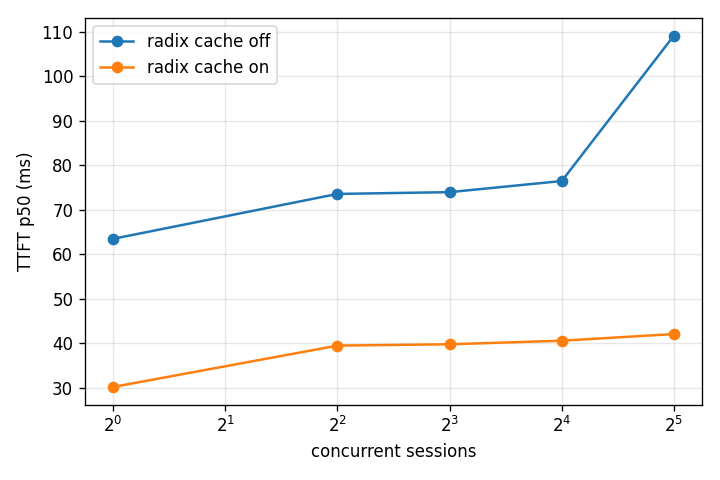
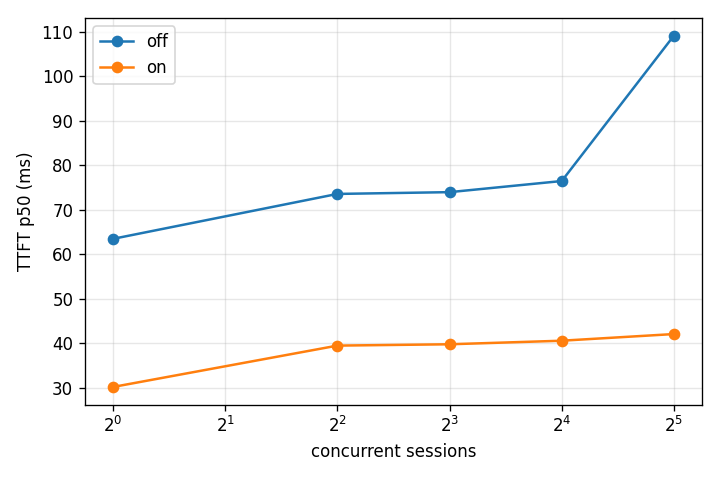
Fix idle_delete pgrep self-match; variant runs (MODES/VARIANT/EXTRA), goodput in analyze, parametrized roofline, LoRA merge script

Changed region(s): [[0.2139, 0.0312, 0.3972, 0.1875]]

diff --git a/agentbench/analyze.py b/agentbench/analyze.py
@@ -25,6 +25,9 @@ def ms(x, nd=1):
     return None if x is None else round(x * 1e3, nd)
 
 
+SLO_TTFT, SLO_TPOT = 0.200, 0.025
+
+
 def metrics_for(path, chips, p_od, p_spot):
     d = json.load(open(path))
     s, turns = d["summary"], d["turns"]
@@ -47,6 +50,9 @@ def metrics_for(path, chips, p_od, p_spot):
     if cached and ptok and len(ptok) == len(ok):
         cached_pct = round(100 * sum(t.get("cached_tokens") or 0 for t in ok) / sum(ptok), 1)
     tps = s.get("output_tok_per_s")
+    # goodput: requests meeting SLO TTFT<200 ms and TPOT(ITL)<25 ms (docs/NEXT_EXPERIMENTS.md #3)
+    good = [t for t in ok if t["ttft_s"] < SLO_TTFT and (t["out_tokens"] <= 1 or t["itl_s"] < SLO_TPOT)]
+    good_tok = sum(t["out_tokens"] for t in good)
     usd_1m = lambda price: round(price * chips / 3600 / tps * 1e6, 3) if tps else None
     return {
         "concurrency": s["config"]["concurrency"],
@@ -63,6 +69,8 @@ def metrics_for(path, chips, p_od, p_spot):
         "cached_tokens_pct": cached_pct,
         "ttft_turn1_ms": ms(t0), "ttft_turnN_ms": ms(tn),
         "ttft_turn1_over_turnN": round(t0 / tn, 2) if t0 and tn else None,
+        "slo_attain_pct": round(100 * len(good) / n, 1) if n else None,
+        "goodput_tok_per_s": round(tps * good_tok / out_tok, 1) if tps and out_tok else None,
         "usd_per_1M_out_ondemand": usd_1m(p_od),
         "usd_per_1M_out_spot_est": usd_1m(p_spot),
         "ttft_by_turn_ms": {str(k): ms(pct(v, 50)) for k, v in sorted(by_turn.items())},
@@ -80,7 +88,7 @@ COLS = ["concurrency", "requests", "error_rate_pct", "output_tok_per_s", "output
         "requests_per_s", "ttft_p50_ms", "ttft_p90_ms", "ttft_p99_ms", "itl_p50_ms", "itl_p90_ms",
         "itl_p99_ms", "e2e_p50_ms", "e2e_p99_ms", "mean_prompt_tokens", "mean_cached_tokens",
         "cached_tokens_pct", "ttft_turn1_ms", "ttft_turnN_ms", "ttft_turn1_over_turnN",
-        "usd_per_1M_out_ondemand", "usd_per_1M_out_spot_est"]
+        "slo_attain_pct", "goodput_tok_per_s", "usd_per_1M_out_ondemand", "usd_per_1M_out_spot_est"]
 
 
 def table(rows):
@@ -103,7 +111,7 @@ def charts(rows, out):
         fig, ax = plt.subplots(figsize=(6, 4))
         for m in modes:
             rr = sorted([r for r in rows if r["mode"] == m], key=lambda r: r["concurrency"])
-            ax.plot([r["concurrency"] for r in rr], [r[key] for r in rr], marker="o", label=f"radix cache {m}")
+            ax.plot([r["concurrency"] for r in rr], [r[key] for r in rr], marker="o", label=m)
         ax.set_xscale("log", base=2); ax.set_xlabel("concurrent sessions"); ax.set_ylabel(label)
         ax.grid(alpha=.3); ax.legend(); fig.tight_layout()
         fig.savefig(os.path.join(out, f"{key}.png"), dpi=120); plt.close(fig)
@@ -129,11 +137,13 @@ def main(argv=None):
     p.add_argument("--price-spot", type=float, default=1.00, help="$/chip-hour (estimate)")
     a = p.parse_args(argv)
     rows, extra = [], {}
-    for mode in ("cache", "nocache"):
+    subdirs = sorted(x for x in os.listdir(a.tagdir)
+                     if glob.glob(os.path.join(a.tagdir, x, "c*.json")))
+    for mode in subdirs:
         d = os.path.join(a.tagdir, mode)
         for f in glob.glob(os.path.join(d, "c*.json")):
             r = metrics_for(f, a.chips, a.price_ondemand, a.price_spot)
-            r["mode"] = "on" if mode == "cache" else "off"
+            r["mode"] = {"cache": "on", "nocache": "off"}.get(mode, mode)
             rows.append(r)
         info = {}
         tf = os.path.join(d, "timing.json")

diff --git a/scripts/roofline.py b/scripts/roofline.py
@@ -1,13 +1,21 @@
 """Decode roofline for Qwen2.5-7B bf16 on TPU v6e-1 vs measured ITL. Writes charts/roofline.png and prints a table."""
-import csv, pathlib
+import argparse, csv, pathlib
 import matplotlib; matplotlib.use("Agg")
 import matplotlib.pyplot as plt
 
-HBM_BW = 1640e9      # v6e HBM bandwidth, B/s (Google Cloud v6e docs)
-PEAK = 918e12        # v6e bf16 peak FLOP/s
-PARAMS = 7.62e9      # Qwen2.5-7B incl. embeddings
+ap = argparse.ArgumentParser()
+ap.add_argument("tagdir", nargs="?", default="results/v6e-1-qwen7b")
+ap.add_argument("--mode", default="on", help="metrics.csv mode column to compare")
+ap.add_argument("--chips", type=int, default=1)
+ap.add_argument("--params", type=float, default=7.62e9)
+ap.add_argument("--kv-per-tok", type=float, default=2 * 28 * 4 * 128 * 2, help="bytes/token, whole model")
+ap.add_argument("--title", default="Qwen2.5-7B bf16 on v6e-1")
+A = ap.parse_args()
+HBM_BW = 1640e9 * A.chips      # v6e HBM bandwidth, B/s (Google Cloud v6e docs)
+PEAK = 918e12 * A.chips       # v6e bf16 peak FLOP/s
+PARAMS = A.params     # Qwen2.5-7B incl. embeddings
 W_BYTES = PARAMS * 2 # bf16
-KV_PER_TOK = 2 * 28 * 4 * 128 * 2  # K+V * layers * kv_heads * head_dim * bf16 = 57,344 B
+KV_PER_TOK = A.kv_per_tok # K+V * layers * kv_heads * head_dim * bf16 = 57,344 B
 CTX = 1400           # ~mean prompt (1236) + half of output
 
 def floor_ms(b):
@@ -15,8 +23,9 @@ def floor_ms(b):
     comp = 2 * PARAMS * b / PEAK
     return max(mem, comp) * 1e3
 
-root = pathlib.Path(__file__).resolve().parents[1] / "results/v6e-1-qwen7b"
-rows = [r for r in csv.DictReader(open(root / "metrics.csv")) if r["mode"] == "on"]
+root = pathlib.Path(A.tagdir)
+rows = sorted([r for r in csv.DictReader(open(root / "metrics.csv")) if r["mode"] == A.mode],
+              key=lambda r: int(r["concurrency"]))
 print("| c | floor ITL ms | measured ITL p50 ms | % of roofline | roofline decode tok/s | measured out tok/s |")
 print("|---|---|---|---|---|---|")
 for r in rows:
@@ -32,5 +41,5 @@ ax.plot([int(r["concurrency"]) for r in rows], [float(r["output_tok_per_s"]) for
         "s--", label="measured end-to-end output tok/s", color="#ff7f0e")
 ax.set_xscale("log", base=2); ax.set_yscale("log")
 ax.set_xlabel("concurrent sequences"); ax.set_ylabel("decode tokens/s")
-ax.set_title("Qwen2.5-7B bf16 on v6e-1: decode roofline vs measured"); ax.grid(alpha=.3); ax.legend(fontsize=8)
-(root / "charts").mkdir(exist_ok=True); fig.tight_layout(); fig.savefig(root / "charts/roofline.png", dpi=130)
+ax.set_title(f"{A.title}: decode roofline vs measured ({A.mode})"); ax.grid(alpha=.3); ax.legend(fontsize=8)
+(root / "charts").mkdir(exist_ok=True); fig.tight_layout(); fig.savefig(root / f"charts/roofline_{A.mode}.png", dpi=130)

diff --git a/scripts/merge_lora.py b/scripts/merge_lora.py
@@ -1,0 +1,52 @@
+"""Merge a PEFT LoRA adapter into base safetensors shards, CPU only (no transformers model build).
+    python scripts/merge_lora.py BASE_DIR ADAPTER_DIR OUT_DIR
+W' = W + (alpha/r) * B @ A for every lora_A/lora_B pair. Copies non-weight files from BASE_DIR
+(and tokenizer/chat template from ADAPTER_DIR). Base key matched by suffix after 'model.'.
+"""
+import json, os, shutil, sys
+import torch
+from safetensors.torch import load_file, save_file
+
+base, adp, out = sys.argv[1:4]
+os.makedirs(out, exist_ok=True)
+cfg = json.load(open(os.path.join(adp, "adapter_config.json")))
+scale = cfg["lora_alpha"] / cfg["r"]
+lora = load_file(os.path.join(adp, "adapter_model.safetensors"))
+pairs = {}
+for k, v in lora.items():
+    if ".lora_A." in k or ".lora_B." in k:
+        stem = k.replace("base_model.model.", "").split(".lora_")[0]
+        pairs.setdefault(stem, {})["A" if ".lora_A." in k else "B"] = v
+print(f"{len(pairs)} LoRA pairs, scale={scale}")
+
+def match(key, stems):
+    w = key[:-len(".weight")] if key.endswith(".weight") else None
+    if w is None:
+        return None
+    for s in (w, w.replace("model.language_model.", "model."), w.replace("model.", "model.language_model.", 1)):
+        if s in stems:
+            return s
+    return None
+
+idx = json.load(open(os.path.join(base, "model.safetensors.index.json")))
+used = set()
+for shard in sorted(set(idx["weight_map"].values())):
+    t = load_file(os.path.join(base, shard))
+    n = 0
+    for k in list(t):
+        s = match(k, pairs)
+        if s:
+            A, B = pairs[s]["A"].float(), pairs[s]["B"].float()
+            t[k] = (t[k].float() + scale * (B @ A)).to(t[k].dtype); used.add(s); n += 1
+    save_file(t, os.path.join(out, shard), metadata={"format": "pt"}); print(shard, "merged", n, flush=True)
+    del t
+missing = set(pairs) - used
+print("unmatched LoRA pairs:", len(missing), sorted(missing)[:5])
+assert not missing, "adapter keys did not match base weights"
+for f in os.listdir(base):
+    if not f.endswith(".safetensors") and os.path.isfile(os.path.join(base, f)):
+        shutil.copy(os.path.join(base, f), out)
+for f in ("tokenizer.json", "tokenizer_config.json", "chat_template.jinja"):
+    if os.path.exists(os.path.join(adp, f)):
+        shutil.copy(os.path.join(adp, f), out)
+print("done", out)

diff --git a/results/v6e-1-qwen7b/metrics.md b/results/v6e-1-qwen7b/metrics.md
@@ -1,14 +1,14 @@
-| mode | concurrency | requests | error_rate_pct | output_tok_per_s | output_tok_per_s_per_chip | requests_per_s | ttft_p50_ms | ttft_p90_ms | ttft_p99_ms | itl_p50_ms | itl_p90_ms | itl_p99_ms | e2e_p50_ms | e2e_p99_ms | mean_prompt_tokens | mean_cached_tokens | cached_tokens_pct | ttft_turn1_ms | ttft_turnN_ms | ttft_turn1_over_turnN | usd_per_1M_out_ondemand | usd_per_1M_out_spot_est |
-|---|---|---|---|---|---|---|---|---|---|---|---|---|---|---|---|---|---|---|---|---|---|---|
-| off | 1 | 24 | 0.0 | 72.39 | 72.4 | 1.219 | 63.5 | 67.1 | 80.8 | 12.86 | 12.91 | 12.94 | 426.0 | 1724.7 | 1230.4 |  |  | 42.5 | 66.6 | 0.64 | 10.361 | 3.837 |
-| off | 4 | 96 | 0.0 | 253.57 | 253.6 | 3.596 | 73.6 | 94.5 | 113.6 | 14.56 | 15.58 | 16.62 | 634.6 | 2076.3 | 1248.3 |  |  | 82.3 | 74.6 | 1.1 | 2.958 | 1.095 |
-| off | 8 | 192 | 0.0 | 433.49 | 433.5 | 6.208 | 74.0 | 128.2 | 186.5 | 16.93 | 18.65 | 20.33 | 784.8 | 2436.7 | 1249.3 |  |  | 128.1 | 75.3 | 1.7 | 1.73 | 0.641 |
-| off | 16 | 384 | 0.0 | 668.12 | 668.1 | 10.357 | 76.5 | 198.0 | 340.9 | 22.28 | 25.24 | 28.33 | 860.8 | 3190.1 | 1240.7 |  |  | 195.3 | 76.9 | 2.54 | 1.123 | 0.416 |
-| off | 32 | 768 | 0.0 | 929.95 | 930.0 | 15.272 | 109.2 | 358.5 | 598.1 | 32.39 | 37.01 | 41.58 | 1208.2 | 4683.7 | 1234.3 |  |  | 326.5 | 108.3 | 3.01 | 0.806 | 0.299 |
-| on | 1 | 24 | 0.0 | 74.96 | 75.0 | 1.261 | 30.2 | 31.5 | 32.7 | 12.88 | 12.91 | 12.92 | 391.6 | 1673.7 | 1230.8 | 1034.7 | 84.1 | 28.5 | 30.5 | 0.93 | 10.005 | 3.706 |
-| on | 4 | 96 | 0.0 | 275.94 | 275.9 | 3.962 | 39.5 | 40.6 | 44.0 | 13.59 | 13.96 | 14.74 | 561.6 | 1825.5 | 1249.2 | 1068.0 | 85.5 | 29.8 | 40.2 | 0.74 | 2.718 | 1.007 |
-| on | 8 | 192 | 0.0 | 514.73 | 514.7 | 7.45 | 39.8 | 51.8 | 64.6 | 14.48 | 14.9 | 15.36 | 580.9 | 1960.9 | 1247.3 | 1093.3 | 87.7 | 45.1 | 40.2 | 1.12 | 1.457 | 0.54 |
-| on | 16 | 384 | 0.0 | 913.41 | 913.4 | 14.107 | 40.6 | 76.7 | 98.6 | 16.39 | 17.13 | 18.38 | 563.3 | 2195.1 | 1243.0 | 1084.0 | 87.2 | 76.4 | 41.2 | 1.86 | 0.821 | 0.304 |
-| on | 32 | 768 | 0.0 | 1515.24 | 1515.2 | 24.45 | 42.1 | 95.4 | 134.1 | 19.83 | 21.01 | 22.51 | 650.2 | 2681.9 | 1236.3 | 1082.8 | 87.6 | 83.2 | 42.2 | 1.97 | 0.495 | 0.183 |
+| mode | concurrency | requests | error_rate_pct | output_tok_per_s | output_tok_per_s_per_chip | requests_per_s | ttft_p50_ms | ttft_p90_ms | ttft_p99_ms | itl_p50_ms | itl_p90_ms | itl_p99_ms | e2e_p50_ms | e2e_p99_ms | mean_prompt_tokens | mean_cached_tokens | cached_tokens_pct | ttft_turn1_ms | ttft_turnN_ms | ttft_turn1_over_turnN | slo_attain_pct | goodput_tok_per_s | usd_per_1M_out_ondemand | usd_per_1M_out_spot_est |
+|---|---|---|---|---|---|---|---|---|---|---|---|---|---|---|---|---|---|---|---|---|---|---|---|---|
+| off | 1 | 24 | 0.0 | 72.39 | 72.4 | 1.219 | 63.5 | 67.1 | 80.8 | 12.86 | 12.91 | 12.94 | 426.0 | 1724.7 | 1230.4 |  |  | 42.5 | 66.6 | 0.64 | 100.0 | 72.4 | 10.361 | 3.837 |
+| off | 4 | 96 | 0.0 | 253.57 | 253.6 | 3.596 | 73.6 | 94.5 | 113.6 | 14.56 | 15.58 | 16.62 | 634.6 | 2076.3 | 1248.3 |  |  | 82.3 | 74.6 | 1.1 | 100.0 | 253.6 | 2.958 | 1.095 |
+| off | 8 | 192 | 0.0 | 433.49 | 433.5 | 6.208 | 74.0 | 128.2 | 186.5 | 16.93 | 18.65 | 20.33 | 784.8 | 2436.7 | 1249.3 |  |  | 128.1 | 75.3 | 1.7 | 100.0 | 433.5 | 1.73 | 0.641 |
+| off | 16 | 384 | 0.0 | 668.12 | 668.1 | 10.357 | 76.5 | 198.0 | 340.9 | 22.28 | 25.24 | 28.33 | 860.8 | 3190.1 | 1240.7 |  |  | 195.3 | 76.9 | 2.54 | 78.6 | 570.9 | 1.123 | 0.416 |
+| off | 32 | 768 | 0.0 | 929.95 | 930.0 | 15.272 | 109.2 | 358.5 | 598.1 | 32.39 | 37.01 | 41.58 | 1208.2 | 4683.7 | 1234.3 |  |  | 326.5 | 108.3 | 3.01 | 5.9 | 68.5 | 0.806 | 0.299 |
+| on | 1 | 24 | 0.0 | 74.96 | 75.0 | 1.261 | 30.2 | 31.5 | 32.7 | 12.88 | 12.91 | 12.92 | 391.6 | 1673.7 | 1230.8 | 1034.7 | 84.1 | 28.5 | 30.5 | 0.93 | 100.0 | 75.0 | 10.005 | 3.706 |
+| on | 4 | 96 | 0.0 | 275.94 | 275.9 | 3.962 | 39.5 | 40.6 | 44.0 | 13.59 | 13.96 | 14.74 | 561.6 | 1825.5 | 1249.2 | 1068.0 | 85.5 | 29.8 | 40.2 | 0.74 | 100.0 | 275.9 | 2.718 | 1.007 |
+| on | 8 | 192 | 0.0 | 514.73 | 514.7 | 7.45 | 39.8 | 51.8 | 64.6 | 14.48 | 14.9 | 15.36 | 580.9 | 1960.9 | 1247.3 | 1093.3 | 87.7 | 45.1 | 40.2 | 1.12 | 100.0 | 514.7 | 1.457 | 0.54 |
+| on | 16 | 384 | 0.0 | 913.41 | 913.4 | 14.107 | 40.6 | 76.7 | 98.6 | 16.39 | 17.13 | 18.38 | 563.3 | 2195.1 | 1243.0 | 1084.0 | 87.2 | 76.4 | 41.2 | 1.86 | 100.0 | 913.4 | 0.821 | 0.304 |
+| on | 32 | 768 | 0.0 | 1515.24 | 1515.2 | 24.45 | 42.1 | 95.4 | 134.1 | 19.83 | 21.01 | 22.51 | 650.2 | 2681.9 | 1236.3 | 1082.8 | 87.6 | 83.2 | 42.2 | 1.97 | 100.0 | 1515.2 | 0.495 | 0.183 |
 
 Startup / warmup / HBM: {"cache": {"startup_s": 40, "warmup_s": 1, "hbm_idle": "27.08 / 31.24 GiB", "hbm_after": "27.09 / 31.24 GiB"}, "nocache": {"startup_s": 40, "warmup_s": 2, "hbm_idle": "27.08 / 31.24 GiB", "hbm_after": "27.18 / 31.24 GiB"}}
